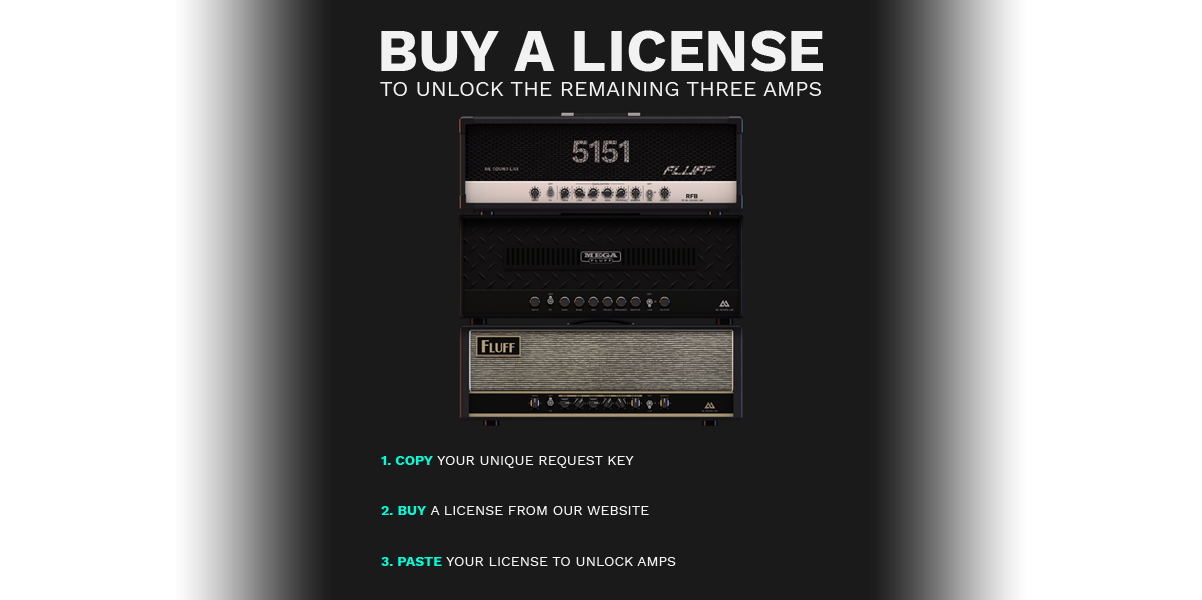
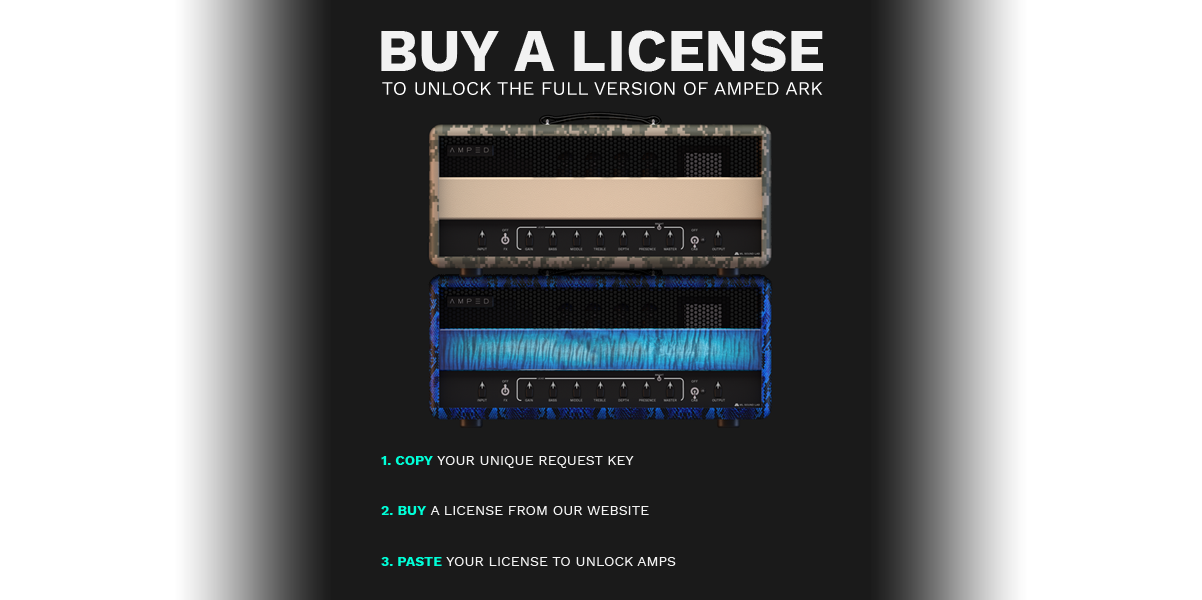
Final tweaks

Changed region(s): [[0.3078, 0.12, 0.6772, 0.72]]

diff --git a/Amped/Source/LicenceDialog.cpp b/Amped/Source/LicenceDialog.cpp
@@ -233,9 +233,12 @@ void LicenceDialog::modalStateFinished(int returnValue) {
     setVisible(false);
 }
 
-void LicenceDialog::showLicenseValidDialog(String email, Component* parent) {
-    NativeMessageBox::showMessageBoxAsync(AlertWindow::InfoIcon, "Thanks a lot!", "This product is licensed for " + email,
-            parent);
+void LicenceDialog::showLicenseValidDialog(String email, Component* parent, bool showRestartNote) {
+    
+    String descriptionText = "This product is licensed for " + email +".";
+    if (showRestartNote) descriptionText += "\n\nIMPORTANT: You need to restart Amped to install the license.";
+    
+    NativeMessageBox::showMessageBoxAsync(AlertWindow::InfoIcon, "Thanks a lot!", descriptionText, parent);
 }
 
 void LicenceDialog::licenceCodeTextChanged()
@@ -245,9 +248,7 @@ void LicenceDialog::licenceCodeTextChanged()
     auto valid = LicenceTools::getInstance()->installLicense(enteredText);
     if (valid == true) {
         auto licence = LicenceTools::getInstance()->getLicence();
-        showLicenseValidDialog(licence->getUserEmail(), this);
-        //NativeMessageBox::showMessageBoxAsync(AlertWindow::InfoIcon, "Thanks a lot!", "This product is licenced for " + licence->getUserEmail(),
-         //       this);
+        showLicenseValidDialog(licence->getUserEmail(), this, true);
         setVisible(false);
     }
     else {

diff --git a/Amped/Source/AmpButtonBar.cpp b/Amped/Source/AmpButtonBar.cpp
@@ -120,7 +120,7 @@ void AmpButtonBar::setAmpComponentBounds(Component& component, int xCoord) {
 void AmpButtonBar::resized()
 {
     setAmpComponentBounds(inputSlider, Constants::ampCompInputX);
-    fxSwitch.setBounds(Constants::AmpCtrlSwitchX -2, Constants::ampButtonsY + 7, Constants::ampButtonsWidth, Constants::ampButtonsHeight);
+    fxSwitch.setBounds(Constants::AmpCtrlSwitchX -2, Constants::ampButtonsY + 3, 50, Constants::ampButtonsHeight);
     setAmpComponentBounds(driveSlider, Constants::AmpCtrlDriveX);
     setAmpComponentBounds(bassSlider, Constants::AmpCtrlBassX);
     setAmpComponentBounds(middleSlider, Constants::AmpCtrlMiddleX);
@@ -137,7 +137,7 @@ void AmpButtonBar::resized()
     setAmpComponentBounds(matchIRSwitch, Constants::AmpCtrlOutputX + 65);
 #endif
     inputClipLed.setBounds(50,18, 22, 22);
-    cabSimSwitch.setBounds(Constants::AmpCtrlCabSimX + 3, Constants::ampButtonsY + 7, 90, Constants::ampButtonsHeight);
+    cabSimSwitch.setBounds(Constants::AmpCtrlCabSimX + 3, Constants::ampButtonsY + 3, 70, Constants::ampButtonsHeight);
 }
 
 void AmpButtonBar::updateCabSimValueFromVTS(float newValue) {

diff --git a/Amped/Source/Consts.h b/Amped/Source/Consts.h
@@ -12,7 +12,7 @@
 
 enum GainProcessorId { InputGain = 0, OutputGain, DriveGain, SIZE};
 
-const std::string AMPED_STORE_FULL_LICENCE_LINK = "https://ml-sound-lab.com/amped-roots";
+const std::string AMPED_STORE_FULL_LICENCE_LINK = "https://ml-sound-lab.com/amped-ark";
 const int AMPED_MONO_CHANNEL = 1;
 
 const std::string VTS_INPUT = "input";
@@ -25,7 +25,6 @@ const std::string VTS_PRESENCE = "presence";
 const std::string VTS_MASTER = "master";
 const std::string VTS_DEPTH = "depth";
 const std::string VTS_BRIGHT = "bright";
-
 
 const std::string VTS_CAB_SIM_TYPE = "cabSim_type";
 const std::string VTS_OUTPUT = "output";

diff --git a/Amped/Source/LicenceDialog.h b/Amped/Source/LicenceDialog.h
@@ -44,7 +44,7 @@ public:
 
     //==============================================================================
     //[UserMethods]     -- You can add your own custom methods in this section.
-    static void showLicenseValidDialog(String email, Component* parent);
+    static void showLicenseValidDialog(String email, Component* parent, bool showRestartNote = false);
     //[/UserMethods]
 
     void paint (Graphics& g) override;

diff --git a/Amped/Source/ThreeWayIRFileSwitch.cpp b/Amped/Source/ThreeWayIRFileSwitch.cpp
@@ -162,7 +162,7 @@ void ThreeWayIRFileSwitch::mouseDown (const MouseEvent& e)
 {
     //[UserCode_mouseDown] -- Add your code here...
     auto mousePos = e.getPosition();
-    if (mousePos.getX() < 50) {
+    if (mousePos.getX() < 40) {
         toggleSwitch();
     }
     else {
